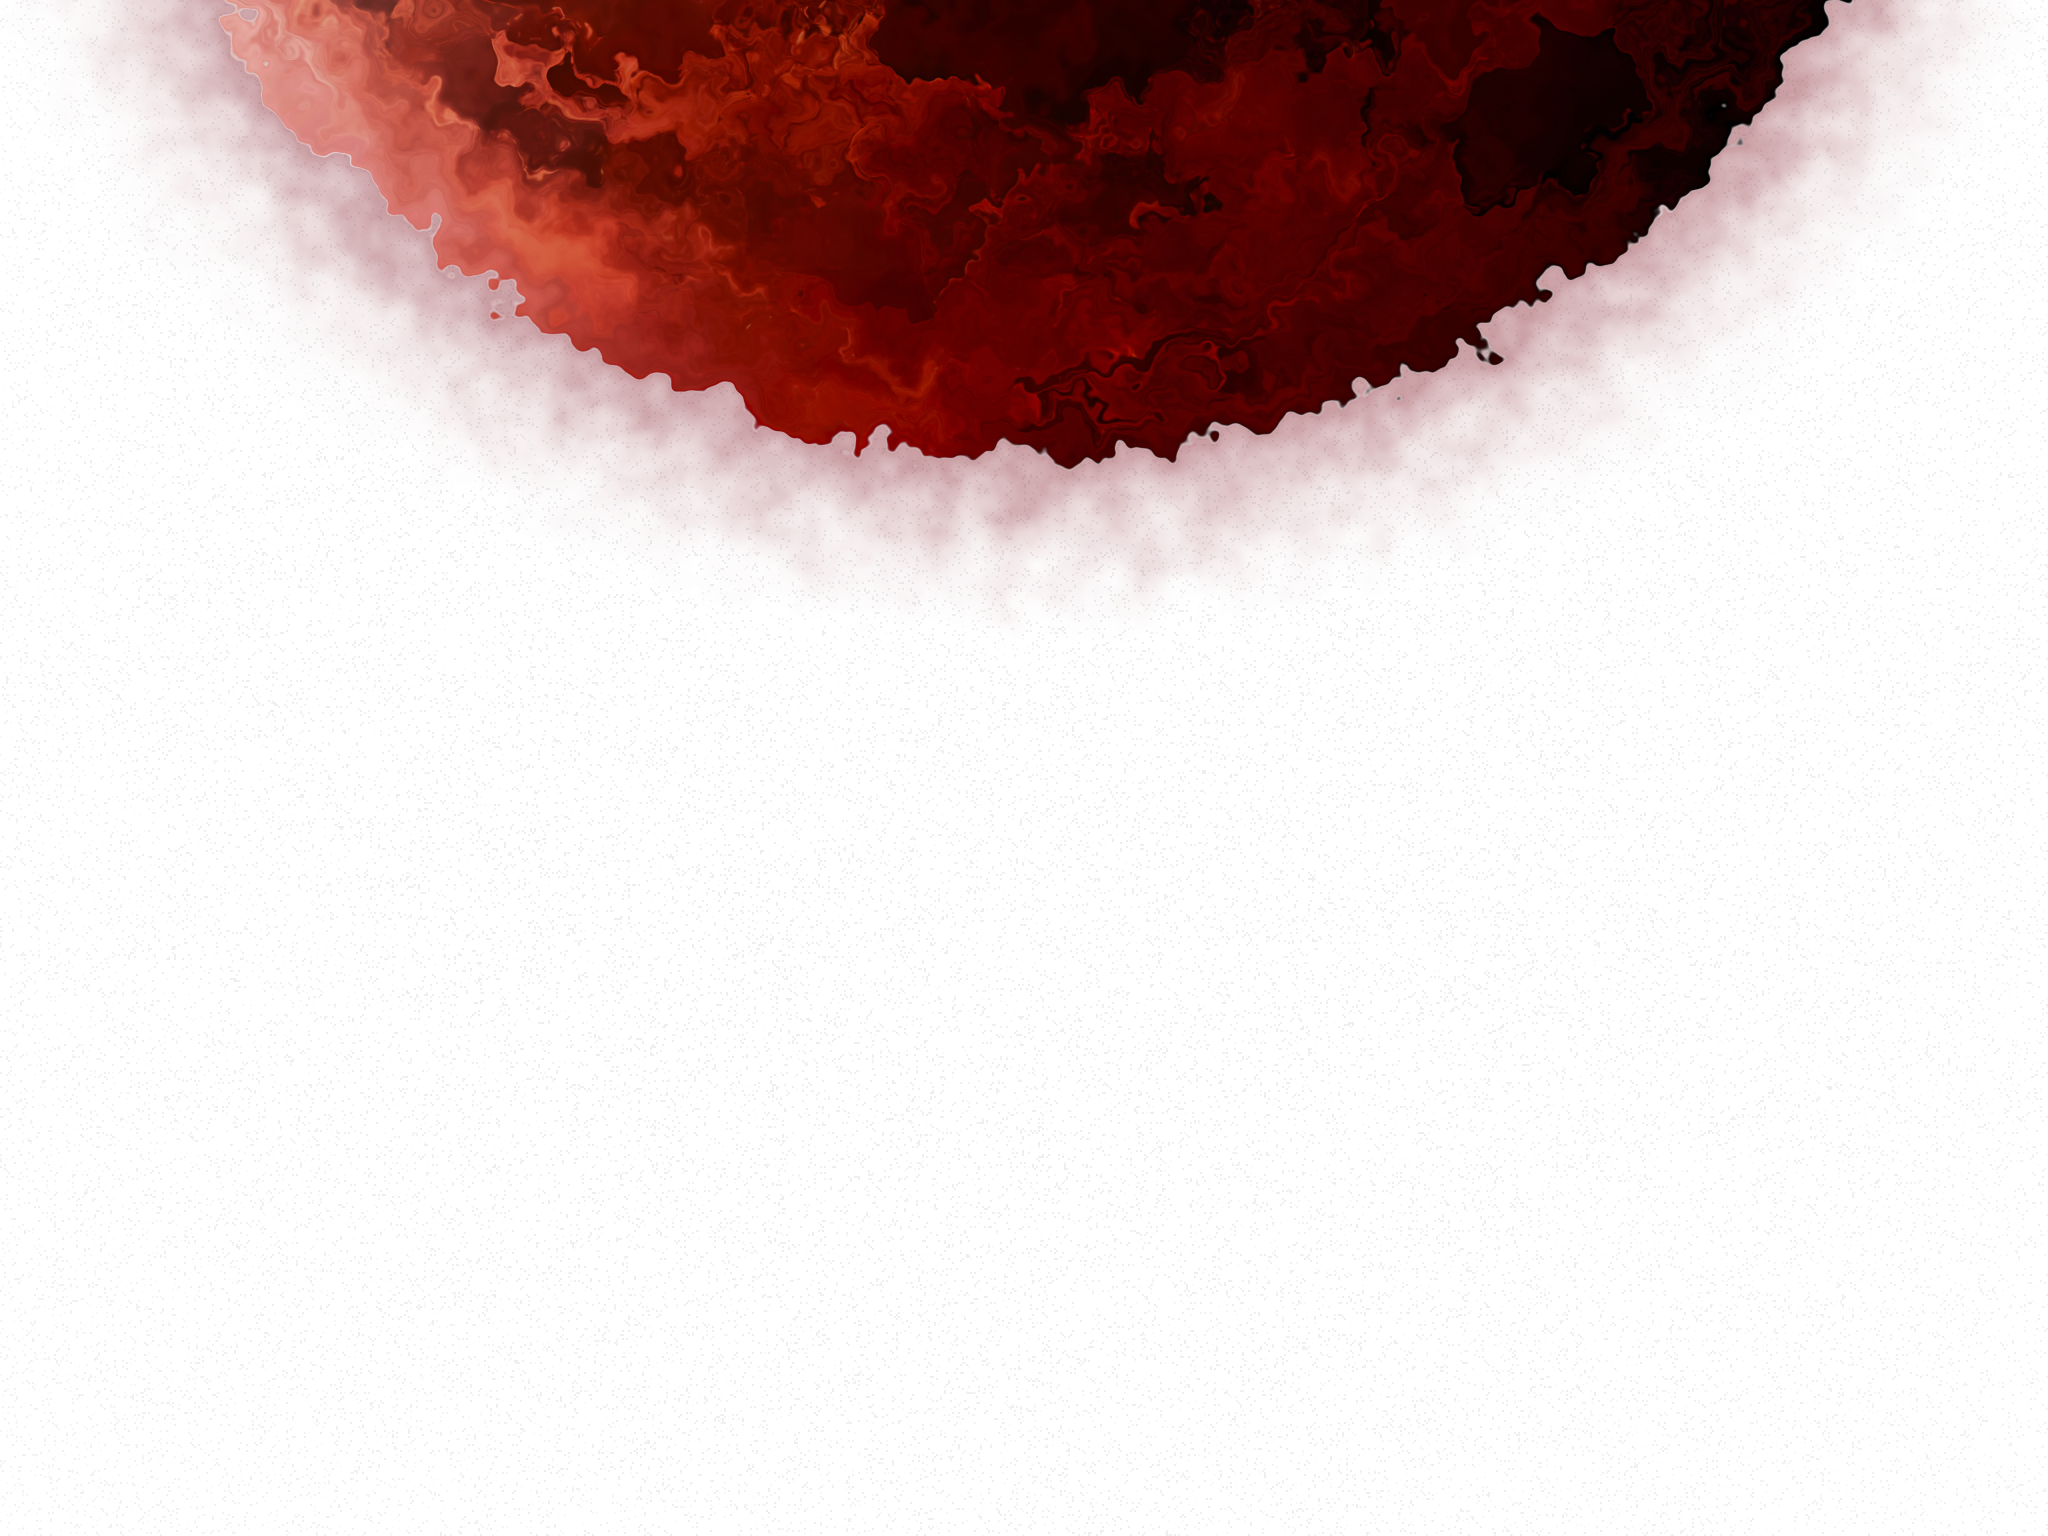
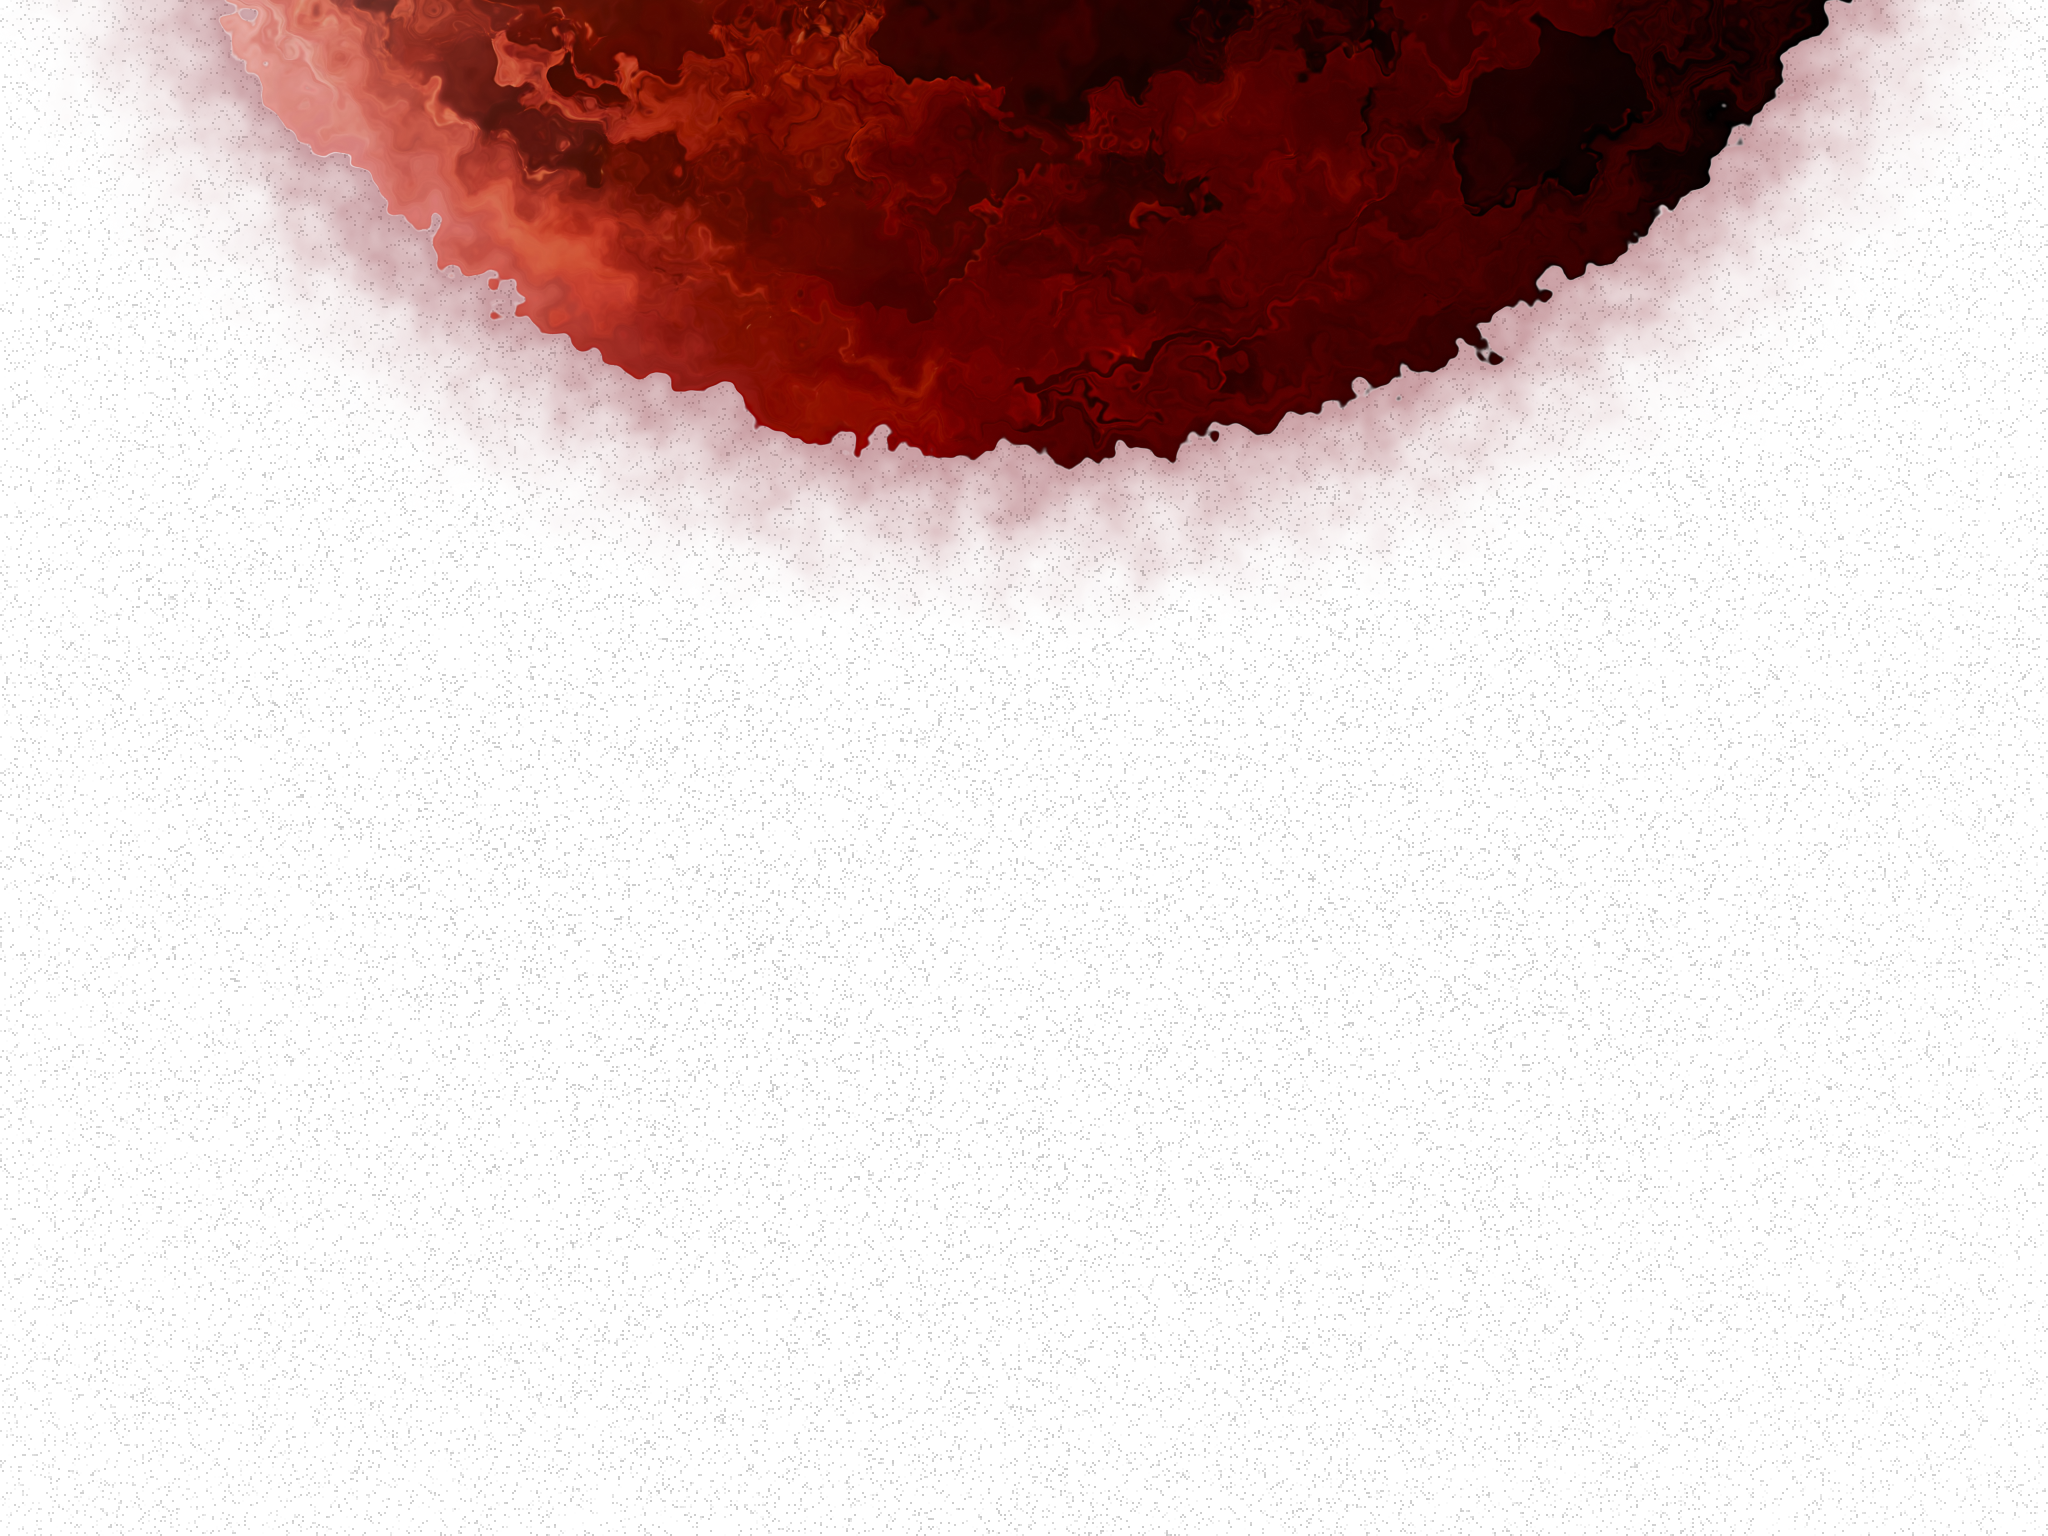
Styles and background changes

diff --git a/src/styles/main/card/card.css b/src/styles/main/card/card.css
@@ -5,7 +5,7 @@
   border-radius: 24px;
   padding: 24px;
   background-color: var(--component-main-color);
-  backdrop-filter: blur(16px);
+  backdrop-filter: blur(8px);
   transition: box-shadow var(--transition-default), 
               border-color var(--transition-default), 
               scale var(--transition-default);

diff --git a/src/styles/main/button/button.css b/src/styles/main/button/button.css
@@ -3,7 +3,7 @@
   border-radius: 24px;
   padding: 24px;
   background-color: var(--component-main-color);
-  backdrop-filter: blur(16px);
+  backdrop-filter: blur(8px);
   transition: box-shadow var(--transition-default),
               border-color var(--transition-default),
               scale var(--transition-default);

diff --git a/src/index.js b/src/index.js
@@ -4,7 +4,7 @@ import { createButton } from './components/button.js';
 import { createCard } from './components/card.js';
 
 const main = document.querySelector('.main');
-const button = createButton('Выбор судьбы');
+const button = createButton('Сделать выбор');
 
 main.append(button);
 

diff --git a/src/styles/main/main.css b/src/styles/main/main.css
@@ -4,6 +4,7 @@
   justify-content: center;
   align-items: center;
   gap: 24px;
-  block-size: 100%;
   padding: 24px;
+  block-size: 100%;
+  inline-size: 100%;
 }
